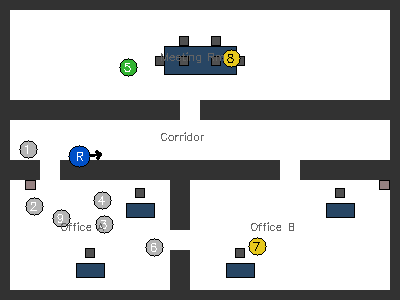
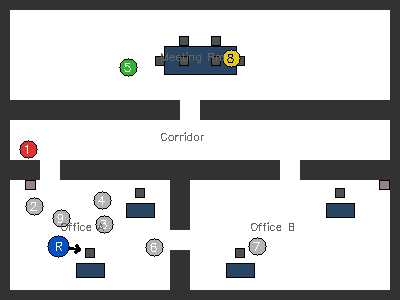
sped up world_state file and fixed rviz vis of map img

diff --git a/scripts/world_state.py b/scripts/world_state.py
@@ -134,24 +134,30 @@ def get_robot_pose(robot: str, world: str, spawn: dict, timeout: float = 3.0):
         from nav_msgs.msg import Odometry
 
         rclpy.init()
-        node = rclpy.create_node("ws_node")
+        node = None
+        ex = None
         received: list = []
-        ev = threading.Event()
+        try:
+            node = rclpy.create_node("ws_node")
+            ev = threading.Event()
 
-        def odom_cb(msg):
-            if not received:
-                received.append(msg)
-                ev.set()
+            def odom_cb(msg):
+                if not received:
+                    received.append(msg)
+                    ev.set()
 
-        node.create_subscription(Odometry, f"/{robot}/odom", odom_cb, 1)
-        ex = rclpy.executors.SingleThreadedExecutor()
-        ex.add_node(node)
-        t0 = time.monotonic()
-        while not ev.is_set() and time.monotonic() - t0 < timeout:
-            ex.spin_once(timeout_sec=0.1)
-        ex.shutdown()
-        node.destroy_node()
-        rclpy.shutdown()
+            node.create_subscription(Odometry, f"/{robot}/odom", odom_cb, 1)
+            ex = rclpy.executors.SingleThreadedExecutor()
+            ex.add_node(node)
+            t0 = time.monotonic()
+            while not ev.is_set() and time.monotonic() - t0 < timeout:
+                ex.spin_once(timeout_sec=0.1)
+        finally:
+            if ex is not None:
+                ex.shutdown()
+            if node is not None:
+                node.destroy_node()
+            rclpy.shutdown()
 
         if received:
             p = received[0].pose.pose.position
@@ -190,7 +196,7 @@ def render_png(
     label_map: dict, spawn: dict, robot_pose, found: set[str],
     obstacles: list[dict], path: str,
 ):
-    """Render map to *path* and return the BGR numpy image, or None on failure."""
+    """Render map to *path*."""
     try:
         import cv2
         import numpy as np
@@ -272,64 +278,6 @@ def render_png(
     return img
 
 
-# ── ROS image publisher ───────────────────────────────────────────────────────
-
-def publish_map_image(img_bgr) -> None:
-    """Publish the map as sensor_msgs/Image on /arst/world_map (transient-local).
-
-    Accepts the BGR numpy array that render_png already built — no disk read-back.
-    All rclpy / sensor_msgs imports and the full ROS lifecycle run inside a
-    background thread so the caller returns in < 5 ms.  daemon=False keeps the
-    process alive until the thread finishes naturally (~300 ms).
-    """
-    import threading
-
-    if img_bgr is None:
-        return
-
-    try:
-        import cv2
-        img_rgb = cv2.cvtColor(img_bgr, cv2.COLOR_BGR2RGB)
-    except Exception:
-        return
-
-    def _publish() -> None:
-        try:
-            import rclpy
-            from rclpy.qos import QoSProfile, DurabilityPolicy, ReliabilityPolicy, HistoryPolicy
-            from sensor_msgs.msg import Image as RosImage
-
-            h, w = img_rgb.shape[:2]
-            msg = RosImage()
-            msg.header.frame_id = "map"
-            msg.height = h
-            msg.width = w
-            msg.encoding = "rgb8"
-            msg.is_bigendian = False
-            msg.step = w * 3
-            msg.data = img_rgb.flatten().tobytes()
-
-            qos = QoSProfile(
-                depth=1,
-                durability=DurabilityPolicy.TRANSIENT_LOCAL,
-                reliability=ReliabilityPolicy.RELIABLE,
-                history=HistoryPolicy.KEEP_LAST,
-            )
-            rclpy.init()
-            node = rclpy.create_node("world_map_publisher")
-            pub = node.create_publisher(RosImage, "/arst/world_map", qos)
-            pub.publish(msg)
-            # 50 ms is enough for DDS to deliver on localhost; TRANSIENT_LOCAL
-            # ensures late-joining subscribers (e.g. RViz) still receive it.
-            time.sleep(0.05)
-            node.destroy_node()
-            rclpy.shutdown()
-        except Exception:
-            pass
-
-    threading.Thread(target=_publish, daemon=False).start()
-
-
 
 # ── Entry point ───────────────────────────────────────────────────────────────
 
@@ -394,12 +342,10 @@ def main() -> None:
 
     # Default PNG path if none specified
     png_path = args.png or str(DEFAULT_PNG)
-    img = render_png(pixels, W, H, res, label_map, spawn, robot_pose, found, obstacles, png_path)
+    render_png(pixels, W, H, res, label_map, spawn, robot_pose, found, obstacles, png_path)
     t = _dt("render_png", t)
     print(png_path)
     print(f"\n⚠  CHECK THE MAP BEFORE MOVING — walls and objects visible: {png_path}")
-    publish_map_image(img)
-    t = _dt("publish_map_image", t)
     if args.debug:
         print(f"[debug] total elapsed: {time.monotonic() - t0:.3f}s", file=sys.stderr)
 

diff --git a/scripts/map_publisher.py b/scripts/map_publisher.py
@@ -1,0 +1,90 @@
+#!/usr/bin/env python3.12
+"""map_publisher.py — watches arst_world_map.png and publishes to /arst/world_map.
+
+Runs as a long-lived ROS 2 node alongside a scenario.  Detects file changes via
+mtime polling (every 0.5 s) and republishes with TRANSIENT_LOCAL so RViz always
+shows the latest map, including late-joining subscribers.
+
+Started automatically by run_scenario.sh.  Can also be run standalone:
+    python3.12 scripts/map_publisher.py [--png PATH]
+"""
+from __future__ import annotations
+
+import argparse
+import sys
+import time
+from pathlib import Path
+
+_REPO_ROOT = Path(__file__).resolve().parent.parent
+sys.path.insert(0, str(_REPO_ROOT / "src"))
+
+import rclpy
+from rclpy.qos import QoSProfile, DurabilityPolicy, ReliabilityPolicy, HistoryPolicy
+from sensor_msgs.msg import Image as RosImage
+
+
+_DEFAULT_PNG = _REPO_ROOT / "arst_world_map.png"
+_POLL_INTERVAL = 0.5  # seconds between mtime checks
+
+
+def _read_as_ros_image(png_path: Path) -> RosImage | None:
+    try:
+        import cv2
+        img_bgr = cv2.imread(str(png_path))
+        if img_bgr is None:
+            return None
+        img_rgb = cv2.cvtColor(img_bgr, cv2.COLOR_BGR2RGB)
+        h, w = img_rgb.shape[:2]
+        msg = RosImage()
+        msg.header.frame_id = "map"
+        msg.height = h
+        msg.width = w
+        msg.encoding = "rgb8"
+        msg.is_bigendian = False
+        msg.step = w * 3
+        msg.data = img_rgb.flatten().tobytes()
+        return msg
+    except Exception as e:
+        print(f"[map_publisher] read error: {e}", file=sys.stderr)
+        return None
+
+
+def main() -> None:
+    parser = argparse.ArgumentParser(description="Watch PNG and publish to /arst/world_map")
+    parser.add_argument("--png", default=str(_DEFAULT_PNG), help="PNG file to watch")
+    args = parser.parse_args()
+
+    png_path = Path(args.png)
+
+    rclpy.init()
+    node = rclpy.create_node("arst_map_publisher")
+    qos = QoSProfile(
+        depth=1,
+        durability=DurabilityPolicy.TRANSIENT_LOCAL,
+        reliability=ReliabilityPolicy.RELIABLE,
+        history=HistoryPolicy.KEEP_LAST,
+    )
+    pub = node.create_publisher(RosImage, "/arst/world_map", qos)
+
+    last_mtime: float = 0.0
+    try:
+        while rclpy.ok():
+            try:
+                mtime = png_path.stat().st_mtime
+                if mtime != last_mtime:
+                    last_mtime = mtime
+                    msg = _read_as_ros_image(png_path)
+                    if msg is not None:
+                        pub.publish(msg)
+            except FileNotFoundError:
+                pass  # PNG not written yet — wait
+            time.sleep(_POLL_INTERVAL)
+    except KeyboardInterrupt:
+        pass
+    finally:
+        node.destroy_node()
+        rclpy.shutdown()
+
+
+if __name__ == "__main__":
+    main()
